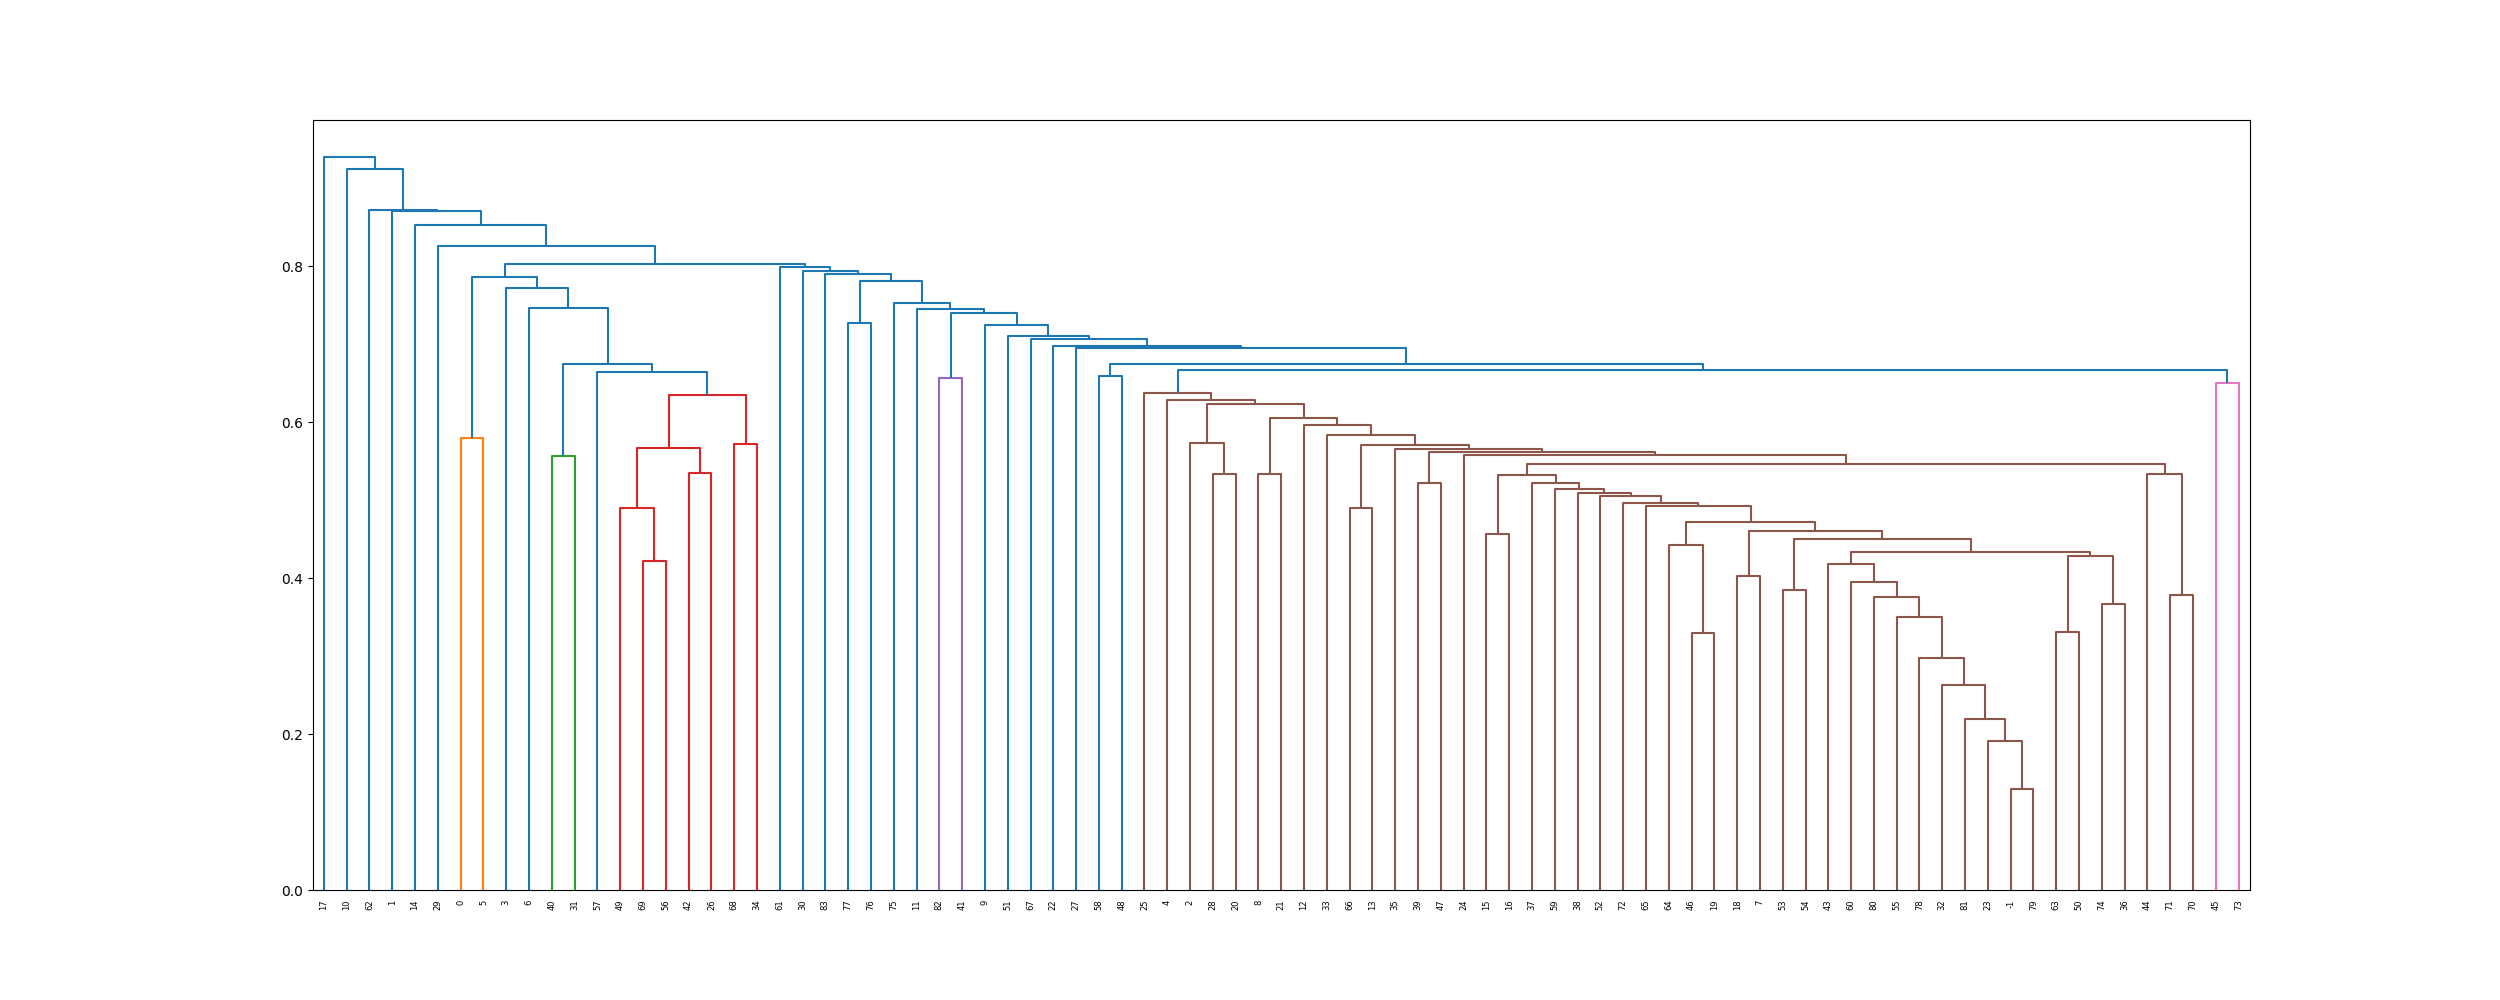
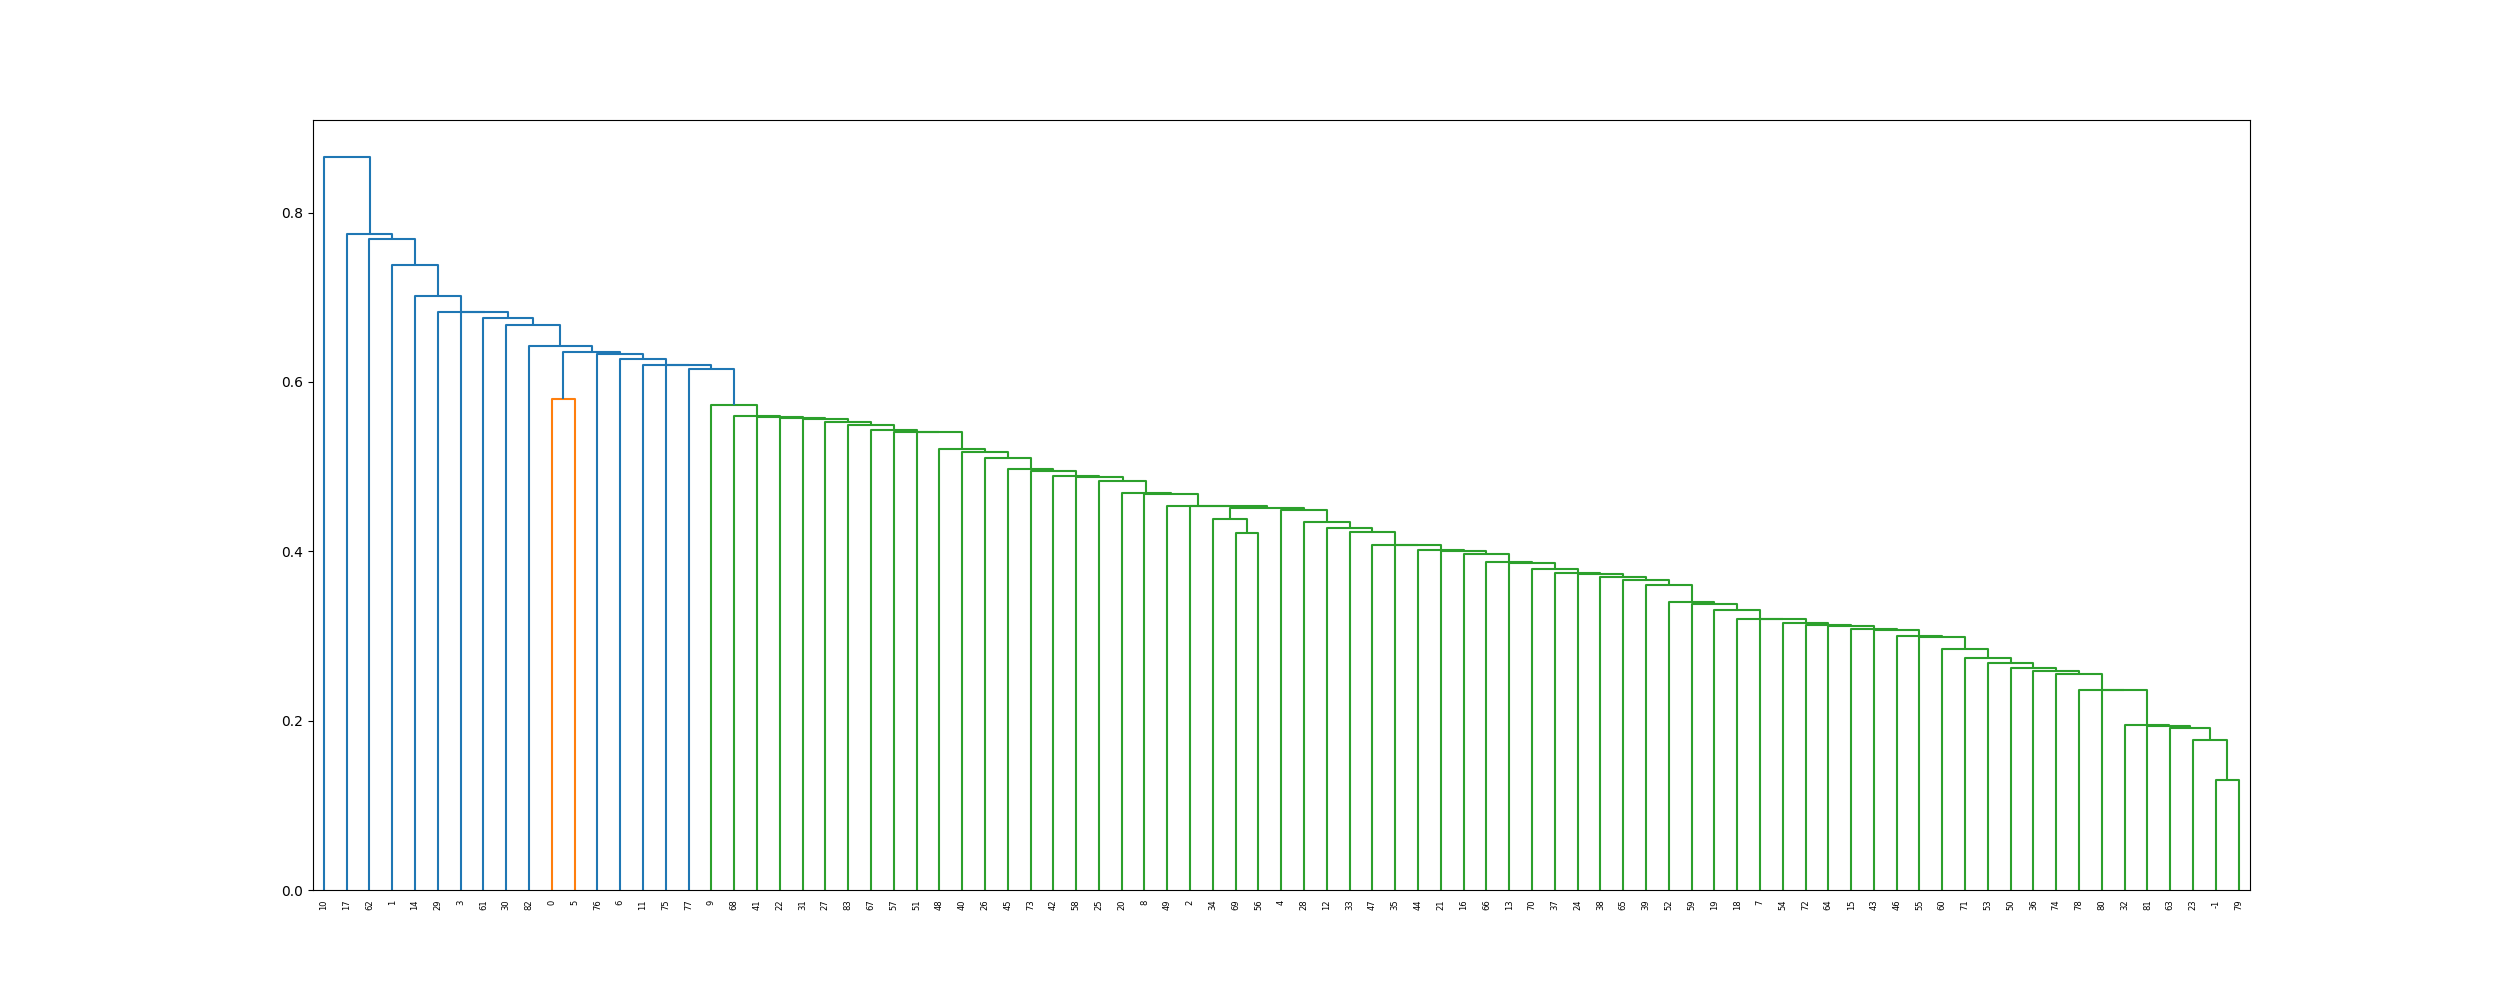
hierarchical

diff --git a/src/hierarchical_topic_discovery.py b/src/hierarchical_topic_discovery.py
@@ -5,7 +5,7 @@ import sys
 sys.path.insert(0, os.path.abspath(os.path.join(os.path.dirname(__file__), "..")))
 from logging_config import configure_get_logger
 import config
-
+from collections import Counter
 from cuml.common import logger
 logger.set_level(logger.level_error)
 
@@ -25,7 +25,7 @@ import gensim.downloader as api
 from gensim.corpora import Dictionary
 from gensim.utils import simple_preprocess
 
-from src.tf_idf import prepare_documents, TF_IDF_matrix, extract_top_words
+from src.tf_idf import prepare_documents, TF_IDF_matrix, extract_top_words, get_cluster_posts
 from src.utils.utils import create_database_connection, load_json, load_h5py
 import igraph as ig
 import leidenalg
@@ -35,10 +35,13 @@ import pickle
 from gensim import corpora
 
 import numpy as np
+import duckdb
 import pandas as pd
 from scipy.cluster.hierarchy import dendrogram, linkage
 from scipy.spatial.distance import squareform
 from scipy.cluster.hierarchy import fcluster
+
+from sklearn.metrics import silhouette_score
 
 def hierarchical_topics_from_similarity(similarity_matrix, topic_labels, linkage_method='average'):
     """Generate a hierarchy of topics based on a cosine similarity matrix.
@@ -56,85 +59,121 @@ def hierarchical_topics_from_similarity(similarity_matrix, topic_labels, linkage
     condensed_distance_matrix = squareform(distance_matrix)
     Z = linkage(condensed_distance_matrix, method=linkage_method)
 
-    plt.figure(figsize=(25, 10))
-    dn = dendrogram(Z, labels=topic_labels, leaf_rotation=90)
-    plt.savefig('dendrogram.png')
-
     return Z
 
+def get_all_posts(con: duckdb.DuckDBPyConnection, ids:list, clusters:list, TABLE_NAME:str):
+    query = f"SELECT title, selftext FROM {TABLE_NAME}"
+    cursor = con.execute(query)
+    posts = cursor.fetchall()
+    return posts
 
-def compute_cluster_labels_at_each_merge(Z, cluster_order, cluster_per_post):
-    """
-    This function computes the cluster labels for each threshold at which a merge occurs in the hierarchical clustering.
-    """
-    thresholds = np.unique(Z[:, 2])
-
-    results = []
-    for threshold in thresholds:
-        labels = fcluster(Z, t=threshold, criterion='distance')
-
-        label_map = {old_label: new_label for old_label, new_label in zip(cluster_order, labels)}
-        mapped_labels = [label_map[cluster_label] for cluster_label in cluster_per_post]
-        results.append({'Threshold': threshold, 'Labels': mapped_labels})
-
-    results_df = pd.DataFrame(results)
-    return results_df
-
-def create_load_corpus_dictionary(corpus_path, texts_path='data/texts.pkl', dict_path='data/dictionary.pkl'):
-    # Check if both the texts and dictionary files exist
-    if os.path.exists(texts_path) and os.path.exists(dict_path):
-        # Load texts
-        with open(texts_path, 'rb') as file:
-            texts = pickle.load(file)
-        # Load dictionary
-        dictionary = Dictionary.load(dict_path)
-    else:
-        # Load or download the wiki corpus if not already done
-        wiki_corpus = api.load(corpus_path)
-
-        texts = []
-        # Process the texts
-        for n, text in tqdm(enumerate(wiki_corpus)):  # process only the first 500,001 documents
-            processed_text = [simple_preprocess(line) for line in text]
-            texts.extend(processed_text)
-
-
-        # Create a dictionary
-        dictionary = Dictionary(texts)
-        # Save texts to a file using pickle
-        with open(texts_path, 'wb') as file:
-            pickle.dump(texts, file)
-        # Save dictionary to a file
-        dictionary.save(dict_path)
-    
-    return texts, dictionary
-
-
-def compute_coherence(REDDIT_DATA_DIR, TABLE_NAME, TFIDF_MAX_FEATURES, IDS_FILE, merged_clusters):
+def get_topics(REDDIT_DATA_DIR, TABLE_NAME, TFIDF_MAX_FEATURES, IDS_FILE, cluster_of_all_posts):
     
     db_connection = create_database_connection(REDDIT_DATA_DIR, TABLE_NAME,  ["id", "title", "selftext"])
     ids = load_json(IDS_FILE)
 
-    texts, dictionary = create_load_corpus_dictionary('wiki-english-20171001')
-
-    print("Preparing documents...")
-    documents, all_clusters = prepare_documents(db_connection, ids, merged_clusters, TABLE_NAME)
-    print("Computing TF-IDF matrix...")
+    iterator_cluster_documents = get_cluster_posts(db_connection, ids, cluster_of_all_posts, TABLE_NAME)
+    documents, unique_clusters = prepare_documents(iterator_cluster_documents)
     tfidf_matrix, feature_names = TF_IDF_matrix(documents, TFIDF_MAX_FEATURES)
-    print("Computing top words per document...")
-    top_words_per_document = extract_top_words(tfidf_matrix, feature_names, all_clusters)
+    print(tfidf_matrix.shape)
+    for row in tfidf_matrix:
+        print(len(row.indices))
+
+    top_words_per_document = extract_top_words(tfidf_matrix, feature_names, unique_clusters)
 
     # extract the top words for each cluster and create a list of string 
     topics_word = []
     for cluster in top_words_per_document:
         topics_word.append(top_words_per_document[cluster])
+    return topics_word
 
-    print(topics_word)
-    cm = CoherenceModel(topics=topics_word, texts=texts, dictionary=dictionary, coherence='u_mass')
-    coherence = cm.get_coherence()
-    return coherence, top_words_per_document
 
-        
+def compute_global_topic_diversity(topics):
+    all_words = [word for topic in topics for word in topic]
+    word_counts = Counter(all_words)
+    top_25_words = word_counts.most_common(25)
+    top_words = [word for word, count in top_25_words]
+    unique_top_words = len(set(top_words))
+    diversity_score = unique_top_words / 25
+    return diversity_score
+
+
+def compute_topic_coherence(topics, con, ids, clusters, TABLE_NAME):
+
+    texts = get_all_posts(con, ids, clusters, TABLE_NAME)
+    processed_texts = map(simple_preprocess, texts)
+    dictionary = Dictionary(processed_texts)
+    
+    coherence_model = CoherenceModel(topics=topics, dictionary=dictionary, texts=topics, coherence='c_v')
+    coherence_score = coherence_model.get_coherence()
+    return coherence_score
+
+
+def find_optimal_threshold( Z, REDDIT_DATA_DIR, TABLE_NAME, TFIDF_MAX_FEATURES, IDS_FILE, max_clusters=10):
+    """
+    Find the optimal threshold to cut the dendrogram for hierarchical clustering by maximizing the silhouette score.
+    
+    Arguments:
+    data -- np.ndarray, the original dataset used for clustering.
+    Z -- np.ndarray, the linkage matrix obtained from hierarchical clustering.
+    max_clusters -- int, maximum number of clusters to consider (defaults to 10).
+    
+    Returns:
+    float, the threshold that maximizes the silhouette score.
+    """
+    ids = load_json(IDS_FILE)
+    db_connection = create_database_connection(REDDIT_DATA_DIR, TABLE_NAME,  ["id", "title", "selftext"])
+    clusters = load_h5py(config.CLUSTER_FILE, 'data')
+    
+    # Test a range of possible number of clusters from 2 up to max_clusters
+
+    # start from half of the max cluster
+    for num_clusters in range(10, min(max_clusters, 40)):
+        # Obtain the flat clusters for the current number of clusters
+        clusters = fcluster(Z, num_clusters, criterion='maxclust')
+        print(f"Number of clusters: {num_clusters}")
+        print(f"Clusters: {clusters}")
+
+        topics = get_topics(REDDIT_DATA_DIR, TABLE_NAME, TFIDF_MAX_FEATURES, IDS_FILE, clusters)
+        diversity_score = compute_global_topic_diversity(topics)
+        # coherence_score = compute_topic_coherence(topics, db_connection, ids, clusters, TABLE_NAME)
+        print(f"Number of clusters: {num_clusters}, Diversity Score: {diversity_score}")
+
+
+
+def plot_dendrogram_and_elbow(Z):
+    """
+    Plot a dendrogram and the elbow curve to help identify the optimal clustering cutoff.
+    
+    Arguments:
+    Z -- Output from the linkage function (linkage matrix).
+    """
+    # Create a figure with two subplots
+    fig, ax = plt.subplots(2, 1, figsize=(12, 12))
+    
+    # Plot dendrogram
+    optimal_threshold, largest_jump_index = find_optimal_threshold(Z)
+    dendrogram(Z, ax=ax[0], color_threshold=optimal_threshold)
+    ax[0].set_title('Hierarchical Clustering Dendrogram')
+    ax[0].set_xlabel('Sample index')
+    ax[0].set_ylabel('Distance')
+    
+    # Extract the distances from the linkage matrix
+    distances = Z[:, 2]
+    # distances = distances[::-1]  # reverse to have the largest merge at the start
+    ax[1].plot(distances)
+    ax[1].set_title('Elbow Plot for Choosing Optimal Cluster Cutoff')
+    ax[1].set_xlabel('Step (Number of merges)')
+    ax[1].set_ylabel('Linkage Distance')
+    ax[1].grid(True)
+    
+    # Improve layout
+    plt.tight_layout()
+    plt.show()
+    plt.savefig('elbow.png')
+
+
+
 if __name__ == "__main__":
     # run_function_with_overrides(main, config)
 
@@ -142,18 +181,6 @@ if __name__ == "__main__":
     cluster_order = load_json(config.CLUSTER_ORDER)['cluster_order']
     cluster_id_per_post = load_h5py(config.CLUSTER_FILE, 'data')
     Z = hierarchical_topics_from_similarity(adjacency_matrix_file, cluster_order)
-    results_df = compute_cluster_labels_at_each_merge(Z, cluster_order, cluster_id_per_post)
-
-    all_coherence = []
-    for index, row in results_df.iterrows():
-        coherence, top_words_per_document = compute_coherence(config.REDDIT_DATA_DIR, config.TABLE_NAME, config.TFIDF_MAX_FEATURES, config.IDS_FILE, row['Labels'])
-        print(f"threshold: { row['Threshold']}, coherence: {coherence}")
-        all_coherence.append(coherence)
-
-        if index > 2: 
-            break
-
-    plt.plot(results_df['Threshold'], all_coherence)
-    plt.savefig('coherence.png')
+    thresholds = find_optimal_threshold(Z, config.REDDIT_DATA_DIR, config.TABLE_NAME, config.TFIDF_MAX_FEATURES, config.IDS_FILE, len(cluster_order))
 
 

diff --git a/src/tf_idf.py b/src/tf_idf.py
@@ -25,13 +25,13 @@ if not os.path.exists(config.OUTPUT_DIR):
 logger = configure_get_logger(config.OUTPUT_DIR, config.EXPERIMENT_NAME, executed_file_name = __file__, log_level='INFO')
 
 
-def get_cluster_posts(con: duckdb.DuckDBPyConnection, ids:list, clusters:list, TABLE_NAME:str):
+def get_cluster_posts(con: duckdb.DuckDBPyConnection, ids:list, cluster_of_all_posts:list, TABLE_NAME:str):
     """
-    Yield the title and selftext for each cluster by executing a database query for each cluster.
+    Yield the title and selftext for all the posts in each cluster by executing a database query for each cluster.
     """
     # Map IDs to their clusters, assuming clusters and IDs are in the same order
     cluster_to_ids = {}
-    for id, cluster in zip(ids, clusters):
+    for id, cluster in zip(ids, cluster_of_all_posts):
         if cluster not in cluster_to_ids:
             cluster_to_ids[cluster] = []
         cluster_to_ids[cluster].append(id)
@@ -44,22 +44,20 @@ def get_cluster_posts(con: duckdb.DuckDBPyConnection, ids:list, clusters:list, T
         posts = cursor.fetchall()
         yield cluster, posts
 
-def extract_top_words(tfidf_matrix, feature_names, all_clusters, top_n=10):
-    """Extract top words for each document."""
+def extract_top_words(tfidf_matrix, feature_names, unique_clusters, top_n=10):
+    """Extract top words for each document (cluster in our case) from the tfidf matrix."""
     top_words_per_document = {}
-    for doc_index in tqdm(range(tfidf_matrix.shape[0])):
-        if doc_index > 2: 
-            break
-        row = tfidf_matrix.getrow(doc_index)
+    for cluster_index in tqdm(range(tfidf_matrix.shape[0])):
+        row = tfidf_matrix.getrow(cluster_index)
         indices = row.indices
         data = row.data
         top_indices = np.argpartition(data, -top_n)[-top_n:]
         top_indices_sorted = top_indices[np.argsort(data[top_indices])[::-1]]
         original_indices = indices[top_indices_sorted]
         top_features = [feature_names[ind] for ind in original_indices]
-        cluster_key = str(all_clusters[doc_index])
-
+        cluster_key = str(unique_clusters[cluster_index])
         top_words_per_document[cluster_key] = top_features
+
     return top_words_per_document
 
 
@@ -76,7 +74,7 @@ def compute_adjacency_matrix(tfidf_matrix, all_clusters):
     return adjacency_matrix
 
 
-def prepare_documents(con: duckdb.DuckDBPyConnection, ids: list, clusters: list, table_name: str) -> pd.Series:
+def prepare_documents(iterator_cluster_posts: iter) -> pd.Series:
     """
     Generate and return a list of document strings aggregated by cluster and a list of corresponding cluster identifiers.
 
@@ -91,13 +89,13 @@ def prepare_documents(con: duckdb.DuckDBPyConnection, ids: list, clusters: list,
                  from posts within the same cluster.
     - list[int]: A list of integers representing the unique cluster identifiers for which documents were generated.
     """
-    all_words = []
-    all_clusters = []
-    for cluster, posts in tqdm(get_cluster_posts(con, ids, clusters, table_name), total=len(set(clusters))):
-        all_clusters.append(int(cluster))
-        cluster_words = " ".join([title + " " + selftext for title, selftext in posts[:1000]])   # TODO: remove
-        all_words.append(cluster_words)
-    return pd.Series(all_words), all_clusters
+    all_text_per_cluster = []
+    unique_clusters = []
+    for cluster, posts in tqdm(iterator_cluster_posts):
+        unique_clusters.append(int(cluster))
+        cluster_words = " ".join([title + " " + selftext for title, selftext in posts])
+        all_text_per_cluster.append(cluster_words)
+    return pd.Series(all_text_per_cluster), unique_clusters
 
 def load_data(REDDIT_DATA_DIR, TABLE_NAME, CLUSTER_FILE, IDS_FILE):
     # Create a database connection
@@ -114,18 +112,18 @@ def TF_IDF_matrix(documents:pd.Series, TFIDF_MAX_FEATURES:str):
 
     return tfidf_matrix, feature_names
 
-
-def main(REDDIT_DATA_DIR:str, TABLE_NAME:str, CLUSTER_FILE:str, IDS_FILE:str, TFIDF_MAX_FEATURES:str, TFIDF_FILE:str, ADJACENCY_MATRIX:str, CLUSTER_ORDER:str):
+def main(REDDIT_DATA_DIR:str, TABLE_NAME:str, CLUSTER_FILE:str, IDS_FILE:str, TFIDF_MAX_FEATURES:str, TFIDF_FILE:str, ADJACENCY_MATRIX:str, CLUSTER_ORDER:str, TFIDF_WORDS_PER_CLUSTER:int):
     """Main function to compute the TF-IDF matrix and adjacency matrix."""
 
     con, ids, clusters = load_data(REDDIT_DATA_DIR, TABLE_NAME, CLUSTER_FILE, IDS_FILE)
-    documents, all_clusters = prepare_documents(con, ids, clusters, TABLE_NAME) 
+    iterator_cluster_documents = get_cluster_posts(con, ids, clusters, TABLE_NAME)
+    documents, all_clusters = prepare_documents(iterator_cluster_documents) 
     tfidf_matrix, feature_names = TF_IDF_matrix(documents, TFIDF_MAX_FEATURES)
     adjacency_matrix = compute_adjacency_matrix(tfidf_matrix, all_clusters)
     save_h5py(adjacency_matrix, ADJACENCY_MATRIX, "data")
     save_json({"cluster_order": list(all_clusters)}, CLUSTER_ORDER)
 
-    top_words_per_document = extract_top_words(tfidf_matrix, feature_names, all_clusters)
+    top_words_per_document = extract_top_words(tfidf_matrix, feature_names, all_clusters, TFIDF_WORDS_PER_CLUSTER)
     save_json(top_words_per_document, TFIDF_FILE)
 
 

diff --git a/config.py b/config.py
@@ -38,7 +38,6 @@ SUBCLUSTER_FILE = os.path.join(OUTPUT_DIR, "subclusters.h5")
 HDBS_MIN_CLUSTERSIZE= 300
 HDBS_MIN_SAMPLES = 20
 PARTIAL_FIT_CLUSTER = 0.1
-MINIMUM_PERCENTAGE_NON_NOISE = 0.68
 
 # tfidf
 TFIDF_MAX_FEATURES = 50_000  # Size of the vocabulary, None means no limitation
